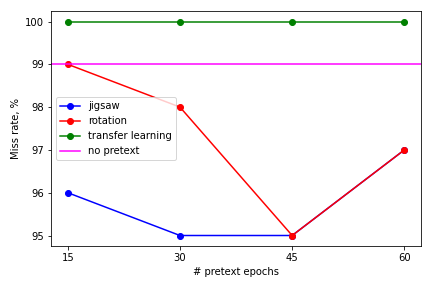
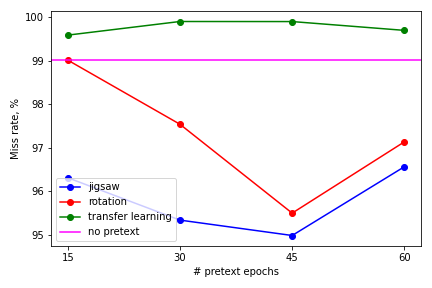
wip

diff --git a/paper/discussion.tex b/paper/discussion.tex
@@ -11,24 +11,29 @@ Parallel to this accuracy in each evaluation was recorded, as only robust classi
 classification accuracy make sense.
 Recorded accuracy simply represents number of images, which were correctly classified before applying FGSM.
 
-
 \paragraph{Observations and Interpretation}
-Pre-training NN on larger dataset, and the fine-tuning (transfer learning) was able to increase accuracy by up to 6\%.
-However, no improvement was seen in the miss-classification rate.
-In contrast, rotation and jigsaw were able to show up to 8\% accuracy improvements,
-and up to 5\% decrease in miss-classification rate, starting up from 45 training epochs.
+All 3 pre-training approaches have shown an improvement in accuracy, which was expected.
+Self-supervised pre-training tasks (rotation and jigsaw) in contrast to transfer learning had shown a decrease
+in miss-rate.
+This means that NN pre-trained in a self-supervised manner, would be less likely fooled by an adversarial image.
 \\
 Despite keeping the intensity of adversarial pattern fixed at a very low value($\epsilon = 0.01$),
 FGSM was still able to produce at least 95\% of miss-classifications.
 The explanation for this liest in fact, that FGSM evaluates loss function of NN,
-so it would be natural to assume that high standard classification accuracy pairs with high adversarial vulnerability.
-\\
-Nonetheless, rotation and jigsaw while providing even better improvements in accuracy than transfer learning,
-were able to slightly reduce miss-classification rate.
-This concurs the theory,
-that self-supervised leaning framework improves the quality of representations
-learned by NN~\cite{kolesnikov2019revisiting}.
+so it would be natural to assume that high standard classification accuracy pairs with high adversarial vulnerability
+\cite{https://doi.org/10.48550/arxiv.1805.12152}.
+This correlation can be seen when comparing the result for "no pre-training" and "transfer-learning".
+In contraast to that, the resault for jigsaw and rotation show an inmcrease in accuracy, as well
+as decrease in miss rate.
+This mean choosing self-supervised pre-training approach is likely to result in more robust classifier,
+which in addition is also more accurate.
 
+The best results can be seen for jigsaw, with pre-training executed for 45 epochs.
+After pre-training time starts to dominate downstream training, a.e 100 vs 30 in our case,
+decrease in accuracy and increase in miss rate can be seen, which shows that it's also importantr
+not to "abuse" self-supervised training, in favor to actual downstream task.
+In general the observations concur to the theory, that self-supervised leaning framework improves the quality of representations
+learned by NN~\cite{kolesnikov2019revisiting}.
 
 
 \paragraph{Limitations \&\& Future work}
@@ -47,31 +52,30 @@ During pretext training, 4 pseudo classes were generated,
 which results in 14680 images, and \textbf{18350} images together with downstream training.
 Imagenette consists of 13,394, which results in \textbf{17064} images together with downstream training.
 
-\paragraph{Future work}
-Despite all the recent advances in visual representation learning, and the success of ML in general, the phenomenon of
-adversarial vulnerability still remains unsolved.
-ML provides a lot of fascinating possibilities, hence its reliability and robustness are still an open question.
-Researchers should explore new methods and approaches to ensure them.
-Concrete for pretext-tasks, this research could be extended by doing similar evaluation on different datasets,
-fine-tuning NNs hyperparameters,
-investing more time in pre-training as well as using models with a bigger number of trainable parameters
-a.e. \ EfficientNetB1, EfficientNetB2 \ldots EfficientNetB7.
 
-\paragraph{Conclusion}
-Including rotation or jigsaw pretext task in a training process had shown \textbf{very} slight improvements in adversarial robustness.
+
+\paragraph{Conclusion \&\& Future Work}
+Including self-supervised pretext task in a training process had shown slight improvements in adversarial robustness.
 However, it is not clear whether these improvements were caused by the choice of pretext task, or other factors.
-Unfortunatelly the quality and amount of data is not sufficient to draw a concrete conlusion from it.
-Extending this research, by using different NNs with better fine-tuned hyperparameters, evaluation similar metrics on
-multiple different datasets and other pretext tasks could provide a solid foundaton for a knowledge how a pretext task choice
-infuences adversarial vulnerability.
+
+The amount of data is not sufficient to draw a concrete conclusion from it.
+In order to achieve a solid foundation for understanding how a choice of pretext-task influences adversarial vulnerability,
+this reaserch could be extended in folowing ways.
+\begin{itemize}
+    \item Use nultiple different models, with bigger number of trainable parameters
+    \item fine-tunning NN hyperparameters before evaluation
+    \item run evaluatio on multiple bigger datasets
+    \item inclide more self-supervised tasks in evaluation
+    \item invest more time in pre-text as well as downstream training
+\end{itemize}
 
 
 In conclusion, adversarial vulnerability remains an open topic,
 and researchers are still far from being able to solve it.
 This investigation was not able to show any substantial improvements in adversarial robustness.
 \\
-Nevertheless, rotation and jigsaw had once again been proved useful in increasing standard classification accuracy.
-Therefore, it would be safe to say,
-that including either of those in the training process could be considered a good practise.
+Nevertheless, rotation and jigsaw had once again been proved useful in increasing standard classification accuracy,
+and in addition made out classifiers slightly less adversarial vulnerable.
+Therefore, it would be safe to say, that including either of those in the training process could be considered a good practise.
 
 

diff --git a/results/results.py b/results/results.py
@@ -28,8 +28,8 @@ def get_acc_and_miss(res_db, task, pr_epochs):
             [*map(lambda xx: xx['total_test_images'],
                   filter(lambda x: x['pretext_epochs'] == pr_ep, res))]
         ) for pr_ep in pr_epochs])
-    accuracy = np.round(predicted / total_images * 100, 3)
-    miss_rate = np.round(miss / predicted * 100)
+    accuracy = predicted / total_images * 100
+    miss_rate = miss / predicted * 100
     return accuracy, miss_rate
 
 
